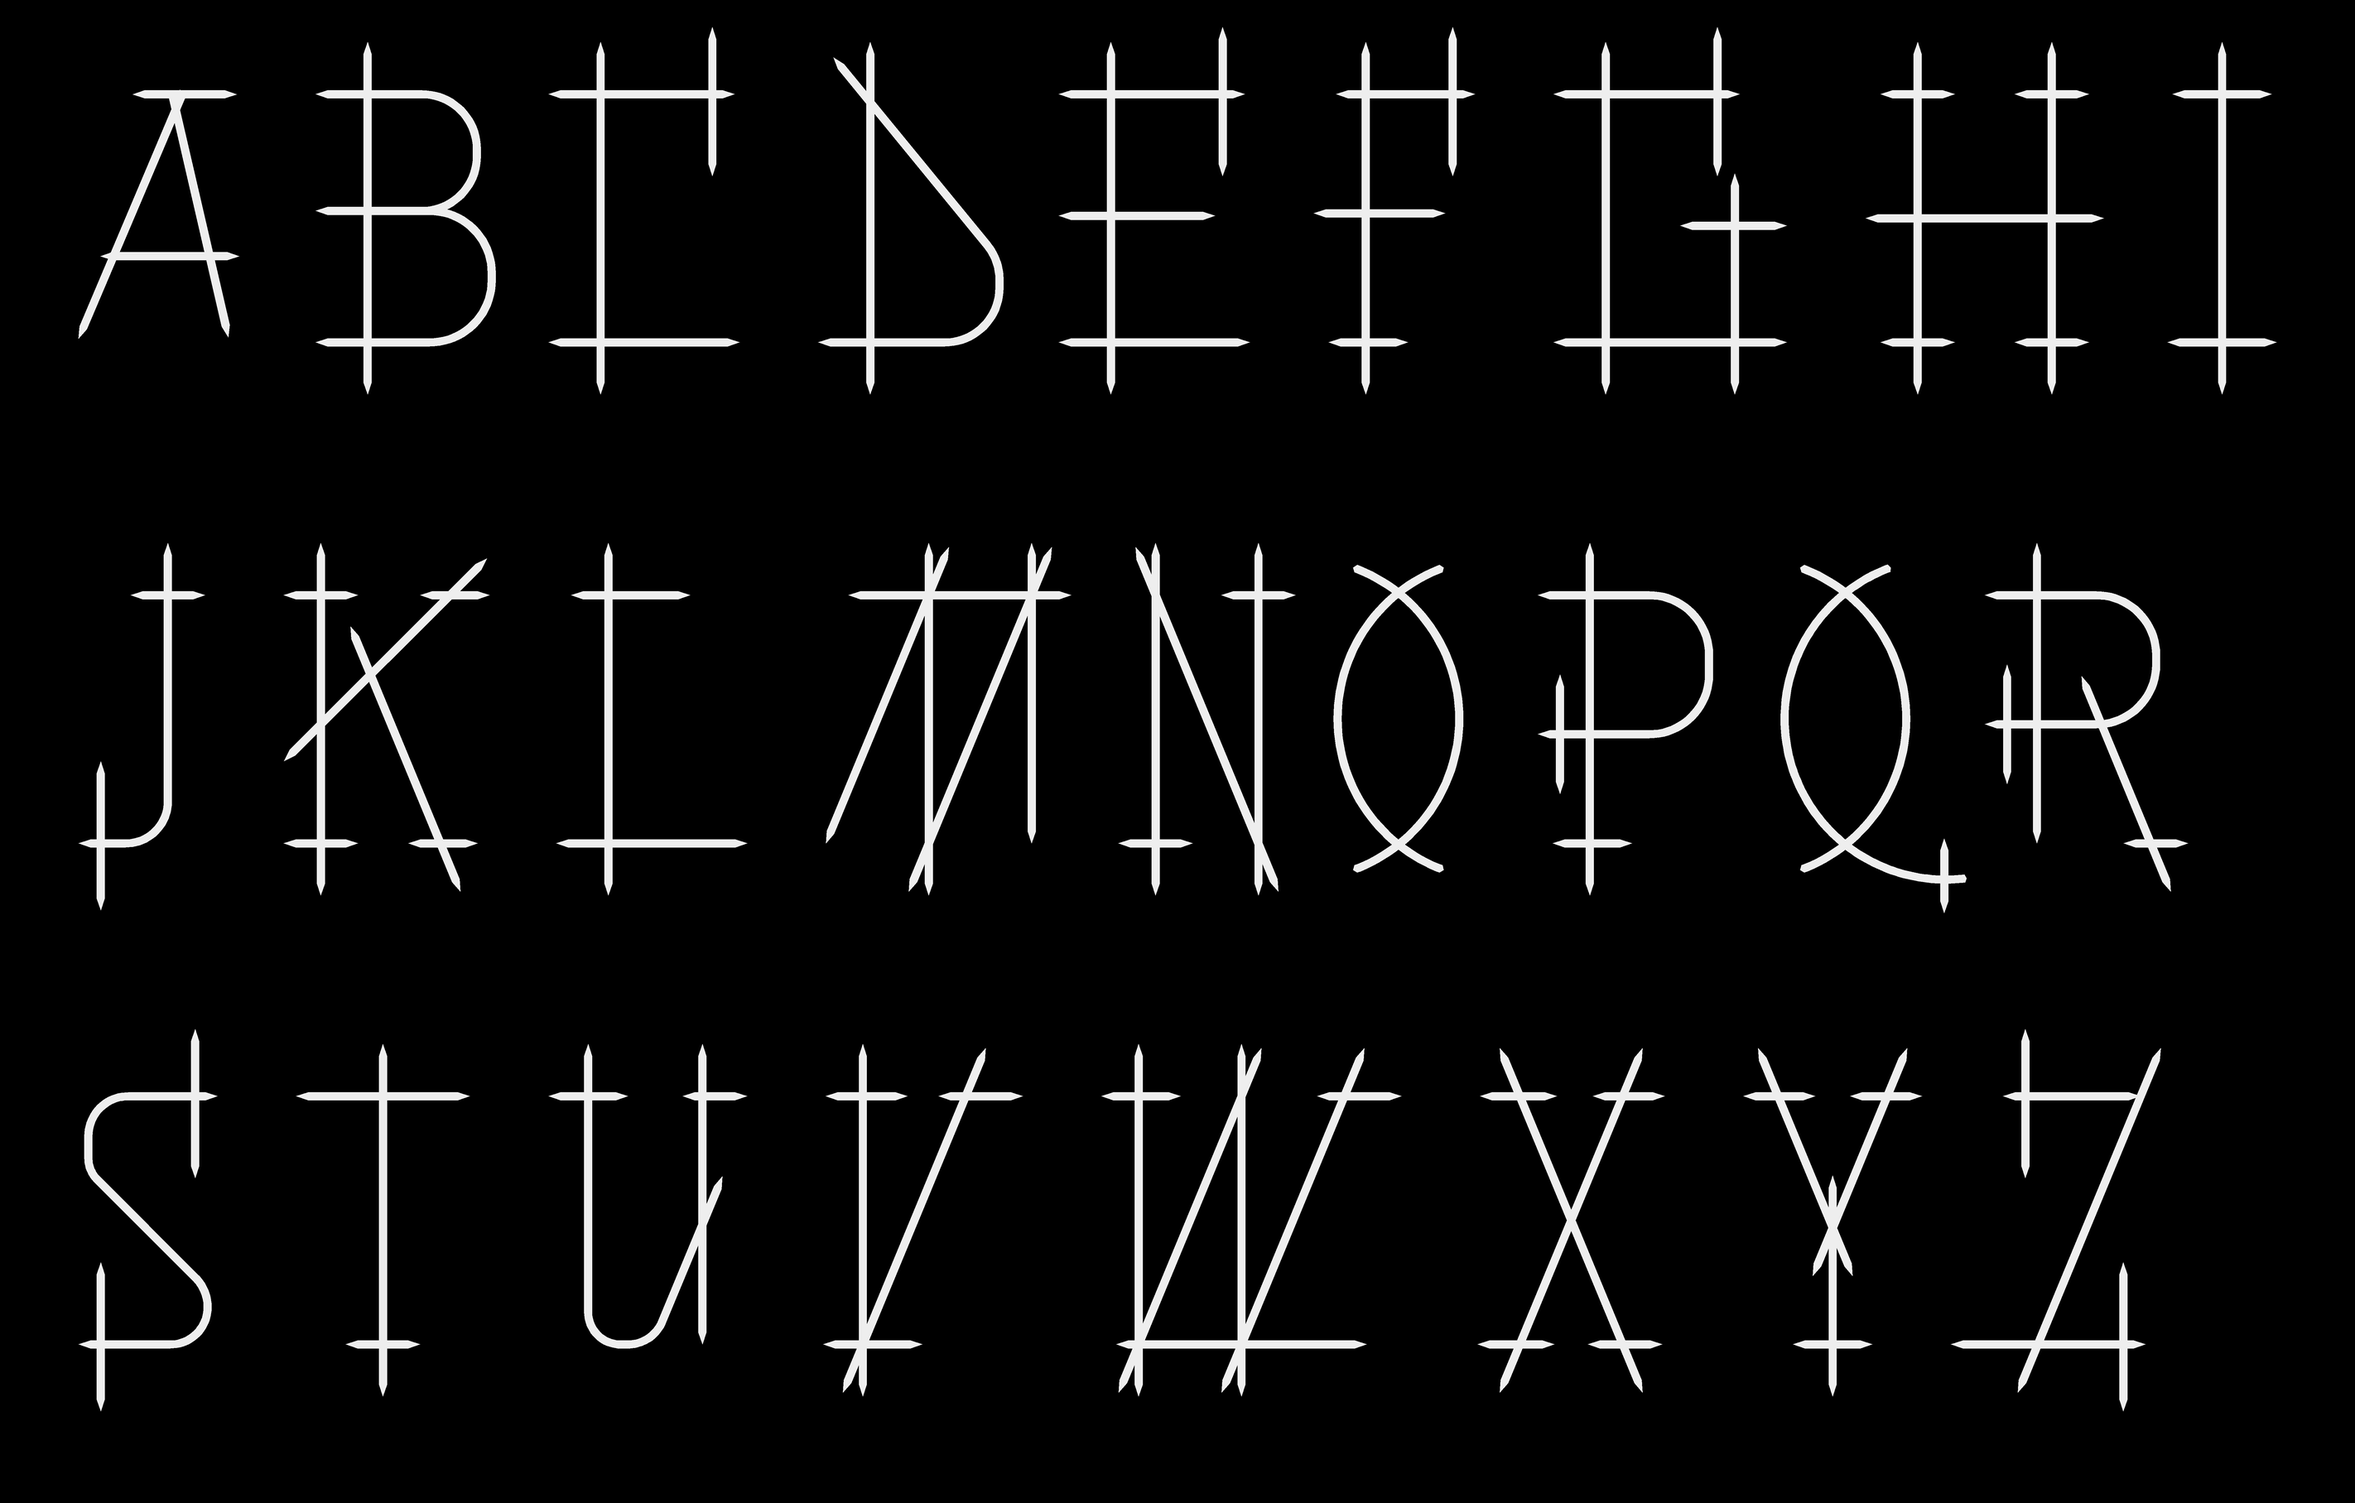
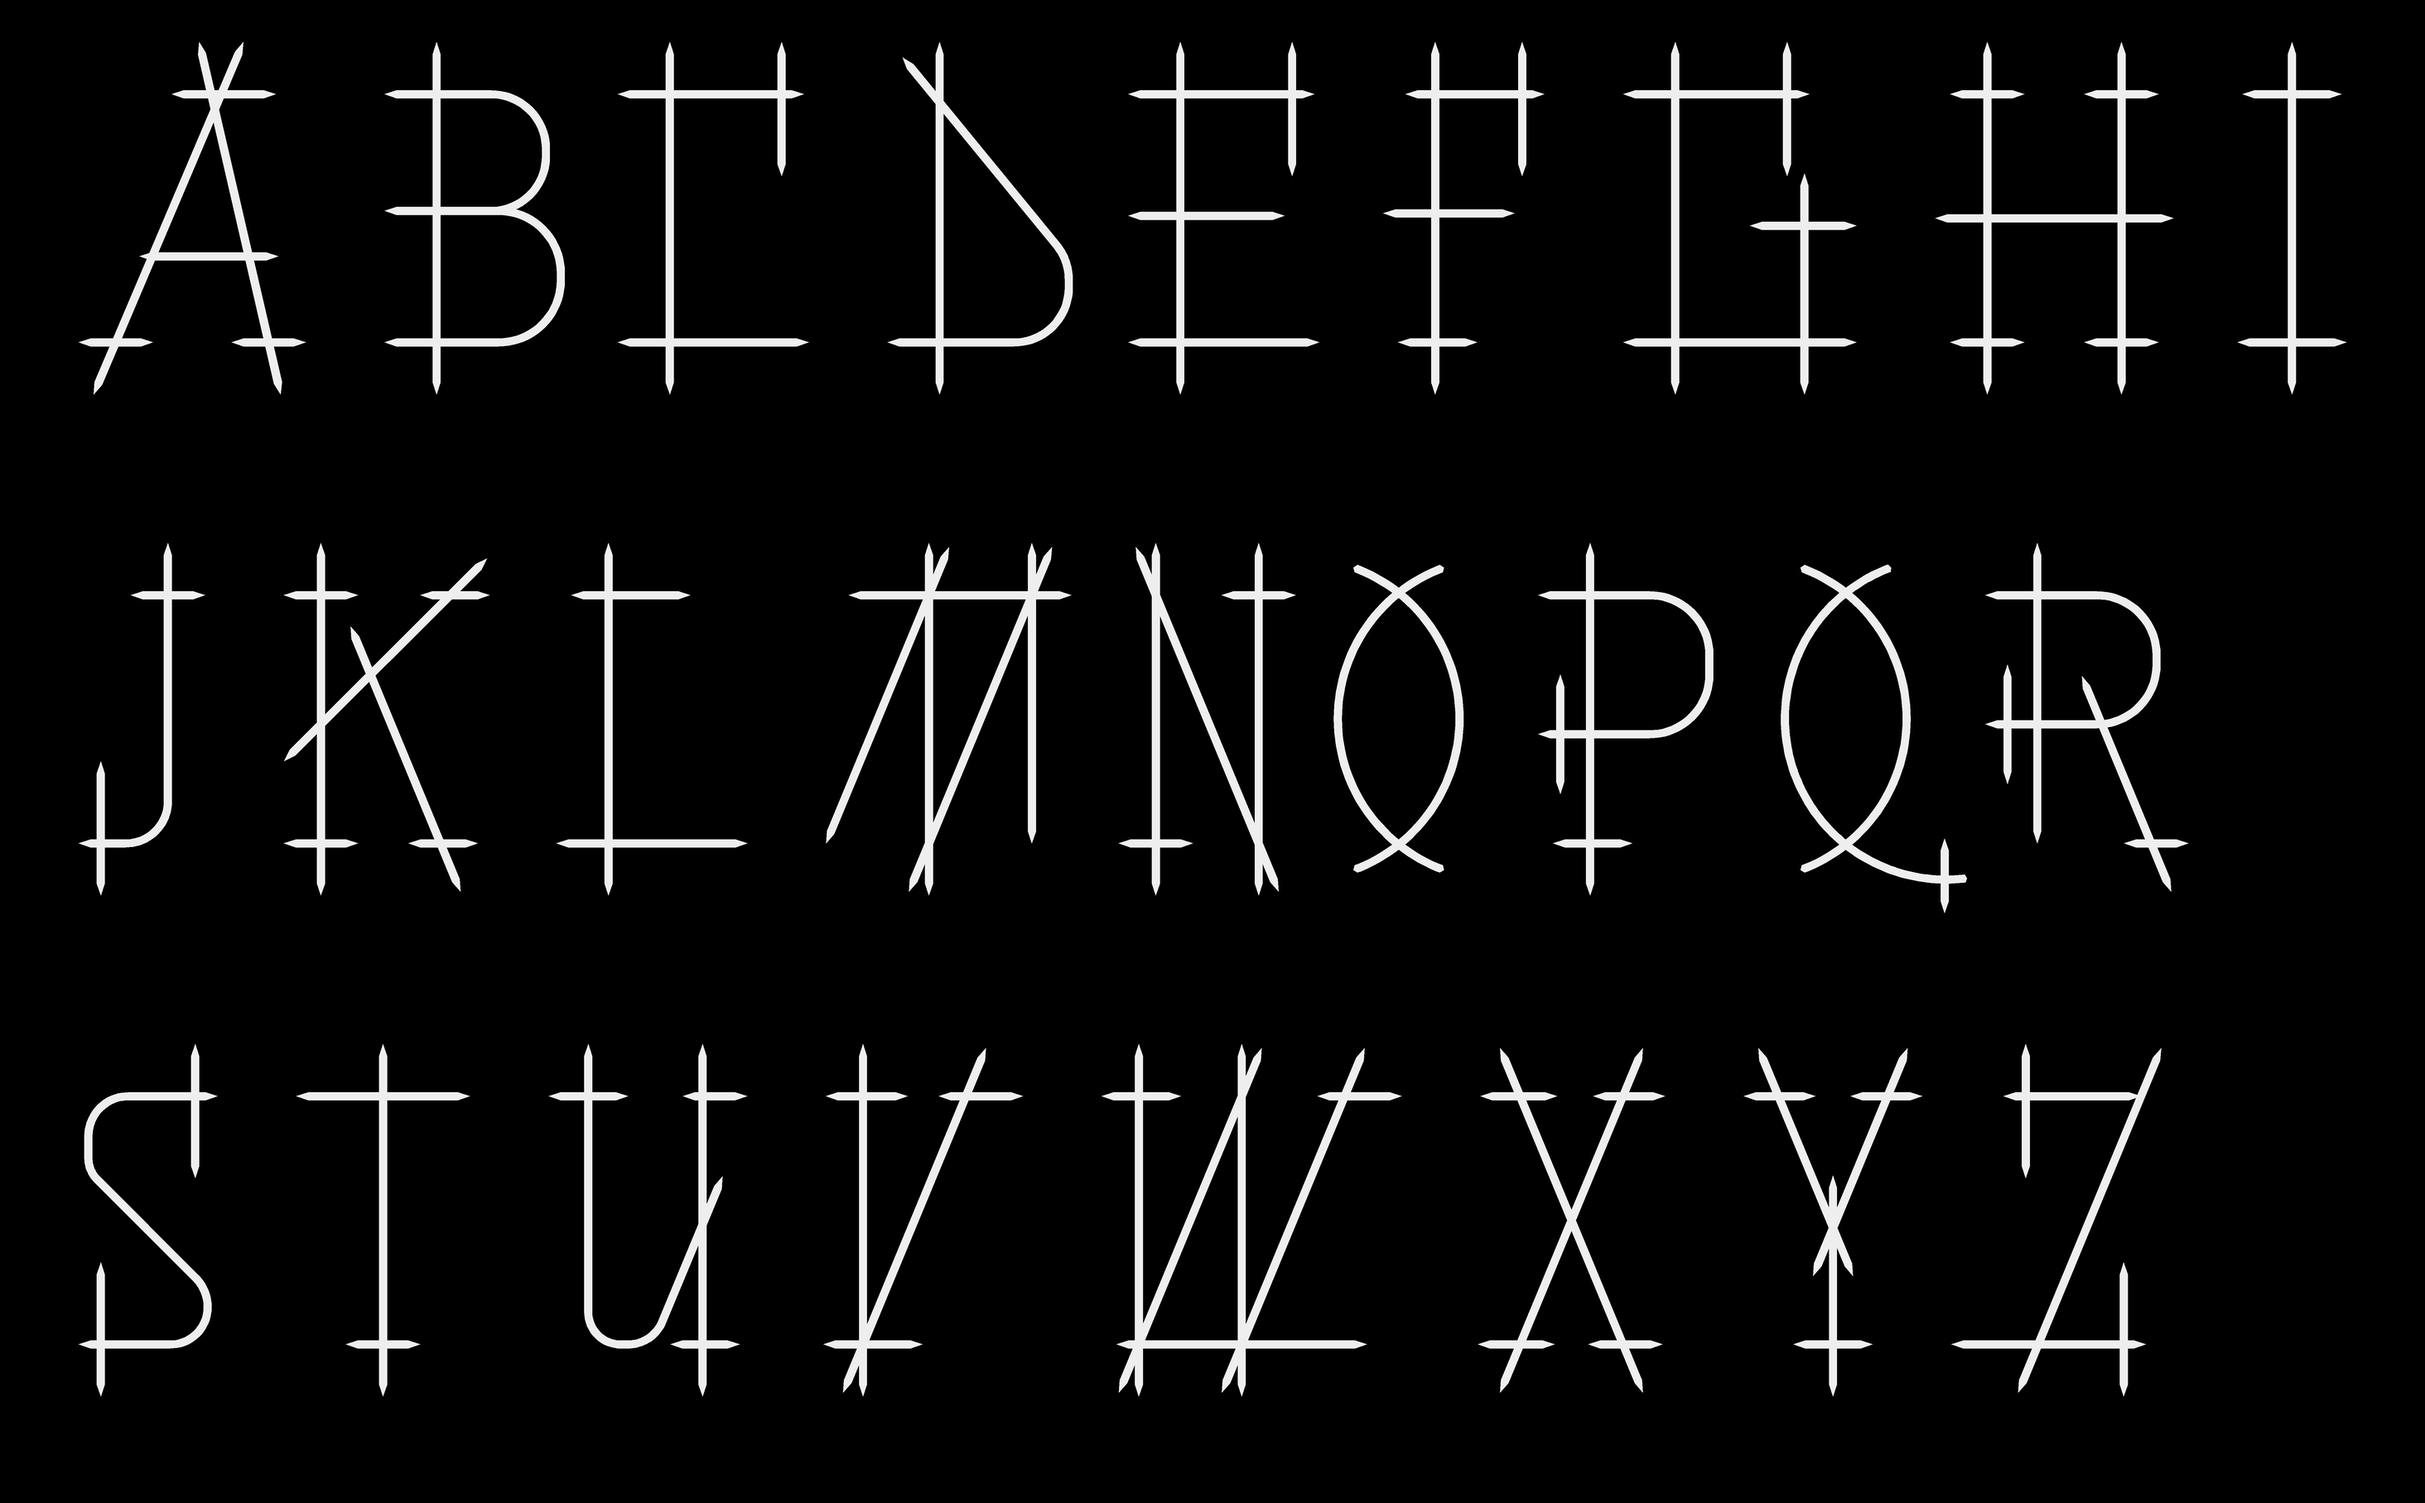
Fûstard 132 : toutes les capitales au même gabarit (A, U, petites croix, 2)

diff --git a/fustard-132/fustard.py b/fustard-132/fustard.py
@@ -52,6 +52,18 @@ def S(*pts):
     return dict(p=path(pts), caps=['tip', 'tip'])
 
 H = 1000
+MEME_TAILLE = True   # toutes les capitales montent à H + ov et descendent à -ov
+PC = lambda: 70 if MEME_TAILLE else 90   # bout extérieur des petites croix (70 f = ov)
+
+def ogive_over(ov, cx=315.0, top=1010.0, bot=-5.0, w=245.0):
+    """Longueur de dépassement des arcs de l'ogive pour que les pointes montent à H + ov."""
+    lo, hi = ov, 4 * ov
+    for _ in range(40):
+        m = (lo + hi) / 2
+        L, R_ = arrondi.ogive(cx=cx, top=top, bot=bot, w=w, over=m)
+        y = max(p[1] for p in L['p'])
+        lo, hi = (m, hi) if y < H + ov else (lo, m)
+    return (lo + hi) / 2
 
 def build(ov=70.0):
     f = ov / 70.0
@@ -60,23 +72,36 @@ def build(ov=70.0):
               S((-150, H), (330, H)),
               S((-ov, 0), (560, 0))]
     # A : celui de la version sharp, gardé tel quel
-    G['A'] = arrondi.G3s['A']
+    if MEME_TAILLE:
+        # A de la version sharp, avec les dépassements : les deux traits se croisent au-dessus
+        # de la barre du haut, et chaque pied traverse une barre posée sur la ligne
+        pd, pa = np.array([12.0, 15.0]), np.array([430.0, 1000.0])     # diagonale gauche
+        qa, qd = np.array([390.0, 1000.0]), np.array([616.0, 21.0])    # trait de droite
+        ud = (pa - pd) / np.linalg.norm(pa - pd); ur = (qd - qa) / np.linalg.norm(qd - qa)
+        g0 = pd - ud * ((pd[1] + ov) / ud[1]); g1 = pa + ud * (ov / ud[1])
+        d0 = qa - ur * (ov / -ur[1]); d1 = qd + ur * ((qd[1] + ov) / -ur[1])
+        xg = pd[0] - pd[1] * ud[0] / ud[1]; xd = qd[0] + qd[1] * ur[0] / -ur[1]
+        G['A'] = [S((230, H), (650, H)), S(tuple(g0), tuple(g1)), S(tuple(d0), tuple(d1)),
+                  S((100, 347), (660, 347)),
+                  S((xg - 150, 0), (xg + 150, 0)), S((xd - 150, 0), (xd + 150, 0))]
+    else:
+        G['A'] = arrondi.G3s['A']
     G['F'] = [S((120, H + ov), (120, -ov)),
               S((0, H), (560, H)),
-              S((560 - 30 * f, H + 90 * f), (560 - 30 * f, H - 110 * f)),
+              S((560 - 30 * f, H + PC() * f), (560 - 30 * f, H - 110 * f)),
               S((120 - ov, 520), (440, 520)),
               S((-30, 0), (290, 0))]
     G['E'] = [S((0, H + ov), (0, -ov)),
               S((-ov, H), (540, H)),
-              S((540 - 30 * f, H + 90 * f), (540 - 30 * f, H - 110 * f)),
+              S((540 - 30 * f, H + PC() * f), (540 - 30 * f, H - 110 * f)),
               S((-ov, 510), (420, 510)),
               S((-ov, 0), (560, 0))]
     xr = 560
     yb = (xr - 360) * T67
     G['U'] = [S((-60, H), (260, H)),
               S((100, H + ov), (100, 0, 130), (360, 0, 150), (xr + ov * C67, yb + ov * S67)),
-              S((xr, H + ov), (xr, 0)),
-              S((xr - 80, H), (xr + 180, H))]
+              S((xr, H + ov), (xr, -ov if MEME_TAILLE else 0)),
+              S((xr - 80, H), (xr + 180, H))] + ([S((xr - 130, 0), (xr + 150, 0))] if MEME_TAILLE else [])
     xl = 260 + 480 / T67
     G['R'] = [S((0, H + ov), (0, 0)),
               S((-ov, H), (480, H, 240), (480, 480, 240), (-ov, 480)),
@@ -84,8 +109,8 @@ def build(ov=70.0):
               S((260 - ov * C67, 480 + ov * S67), (xl + ov * C67, -ov * S67)),
               S((xl - 110, 0), (xl + 150, 0))]
     G['S'] = [S((560, H), (40, H, 160), (40, 700, 120), (520, 220, 170), (520, 0, 150), (0, 0)),
-              S((560 - 30 * f, H + 90 * f), (560 - 30 * f, H - 110 * f)),
-              S((30 * f, 110 * f), (30 * f, -90 * f))]
+              S((560 - 30 * f, H + PC() * f), (560 - 30 * f, H - 110 * f)),
+              S((30 * f, 110 * f), (30 * f, -PC() * f))]
     G['T'] = [S((0, H), (700, H)),
               S((350, H + ov), (350, -ov)),
               S((200, 0), (500, 0))]
@@ -95,13 +120,14 @@ def build(ov=70.0):
     G['I'] = [S((0, H + ov), (0, -ov)),
               S((-200, H), (200, H)),
               S((-220, 0), (220, 0))]
-    G['O'] = arrondi.ogive(over=ov)
+    ov_o = ov   # l'ogive garde ses pointes courbes (le cercle plafonne vers 1150)
+    G['O'] = arrondi.ogive(over=ov_o)
 
     # ---- le reste de l'alphabet ----
     def croix_haut(x, y):   # petite croix verticale en bout de barre (E, F, S)
-        return dict(S((x, y + 90 * f), (x, y - 110 * f)), detail=True)
+        return dict(S((x, y + PC() * f), (x, y - 110 * f)), detail=True)
     def croix_bas(x, y):
-        return dict(S((x, y + 110 * f), (x, y - 90 * f)), detail=True)
+        return dict(S((x, y + 110 * f), (x, y - PC() * f)), detail=True)
     def diag(x0, y0, x1, y1, a=True, b=True):   # trait qui dépasse de ov à ses bouts
         u = np.array([x1 - x0, y1 - y0], float); u /= np.linalg.norm(u)
         p = np.array([x0, y0]) - (u * ov if a else 0)
@@ -177,11 +203,11 @@ def build(ov=70.0):
               S((-150, 0), (150, 0)), S((w67 - 150, H), (w67 + 150, H))]
     # Q : l'ogive du O, queue à 45° qui traverse la pointe du bas
     # Q : l'arc de gauche du O continue sa courbe en longue queue, barrée d'une croix
-    Ov = arrondi.ogive(over=ov)
+    Ov = arrondi.ogive(over=ov_o)
     cxq, hq, wq = 315.0, 507.5, 245.0
     aq = (hq * hq - wq * wq) / (2 * wq); rq = aq + wq; cyq = 502.5
     phq = math.atan2(hq, aq)
-    t0, t1 = math.pi - phq - ov / rq, math.pi + phq + 520 / rq
+    t0, t1 = math.pi - phq - ov_o / rq, math.pi + phq + 520 / rq
     queue = [np.array([cxq + aq + rq * math.cos(t), cyq + rq * math.sin(t)]) for t in np.linspace(t0, t1, 120)]
     tc = t1 - 30 * f / rq
     xc, yc_ = cxq + aq + rq * math.cos(tc), cyq + rq * math.sin(tc)
@@ -242,9 +268,9 @@ def build_chiffres_maj(ov):
     """Chiffres majuscules : coins vifs, chaque jonction en croix, comme les capitales."""
     f = ov / 70.0
     def croix_haut(x, y):
-        return dict(S((x, y + 90 * f), (x, y - 110 * f)), detail=True)
+        return dict(S((x, y + PC() * f), (x, y - 110 * f)), detail=True)
     def croix_bas(x, y):
-        return dict(S((x, y + 110 * f), (x, y - 90 * f)), detail=True)
+        return dict(S((x, y + 110 * f), (x, y - PC() * f)), detail=True)
     def diag(x0, y0, x1, y1, a=True, b=True):
         u = np.array([x1 - x0, y1 - y0], float); u /= np.linalg.norm(u)
         p = np.array([x0, y0]) - (u * ov if a else 0)
@@ -261,7 +287,7 @@ def build_chiffres_maj(ov):
     C['1'] = [v(220, 0, H), S((40, 0), (400, 0)),
               diag(220, H, 20, H - 200)]
     C['2'] = [h(H, 0, W), S((W, H + ov), (W, 440)),
-              diag(W, 440, 0, 0), h(0, 0, W)]
+              diag(W, 440, 0, 0) if not MEME_TAILLE else S((W + ov * 0.7071, 440 + ov * 0.7071), (-ov, -ov)), h(0, 0, W)]
     C['3'] = [h(H, 0, W), v(W, 0, H), S((100, 520), (W + ov, 520)), h(0, 0, W)]
     x4 = 360 - 700 / T67
     C['4'] = [v(360, 0, H), diag(360, H, x4, 300),
@@ -287,9 +313,9 @@ def build_lc(ov):
     f = ov / 70.0
     X, A, D = XH, ASC, DESC
     def croix_haut(x, y):
-        return dict(S((x, y + 90 * f), (x, y - 110 * f)), detail=True)
+        return dict(S((x, y + PC() * f), (x, y - 110 * f)), detail=True)
     def croix_bas(x, y):
-        return dict(S((x, y + 110 * f), (x, y - 90 * f)), detail=True)
+        return dict(S((x, y + 110 * f), (x, y - PC() * f)), detail=True)
     def diag(x0, y0, x1, y1, a=True, b=True):
         u = np.array([x1 - x0, y1 - y0], float); u /= np.linalg.norm(u)
         p = np.array([x0, y0]) - (u * ov if a else 0)
@@ -373,7 +399,7 @@ def build_ponct(ov):
     """Ponctuation. Les points sont des croix ; guillemets en chevrons croisés à la pointe."""
     f = ov / 70.0
     def croix_haut(x, y):
-        return dict(S((x, y + 90 * f), (x, y - 110 * f)), detail=True)
+        return dict(S((x, y + PC() * f), (x, y - 110 * f)), detail=True)
     def point(x, y, s=80):
         return [S((x, y + s), (x, y - s)), S((x - s, y), (x + s, y))]
     def virgule(x, y, s=80):

diff --git a/fustard-132/README.md b/fustard-132/README.md
@@ -14,6 +14,7 @@ Version techno gothique de Jalousia (dossier `jalousia/`). Travail en cours.
 - **A** : celui de la version sharp, gardé tel quel.
 - **Q** : l'arc de gauche du O continue en longue queue courbe, barrée d'une petite croix.
 - **Trait** : 32 d'épaisseur.
+- **Gabarit** : toutes les capitales montent à 1210 et descendent à −210 (fûts, croix, A et U compris). Seuls le O et le Q gardent leurs pointes courbes, un peu en dessous.
 - **Minuscules** : hauteur 600, montantes 1000, descendantes −380 ; croisements à la même exagération, en proportion (126).
   Point du i et du j en croix, queues de g, j, y sur la croix du J, e arrondi en haut avec un coin vif en bas à gauche.
 - **Ponctuation** : points en croix, apostrophes en dagues, « » en chevrons croisés à la pointe, & en « Et », * à 8 branches, @ en fenêtre de cathédrale avec le a de Fûstard dedans.
